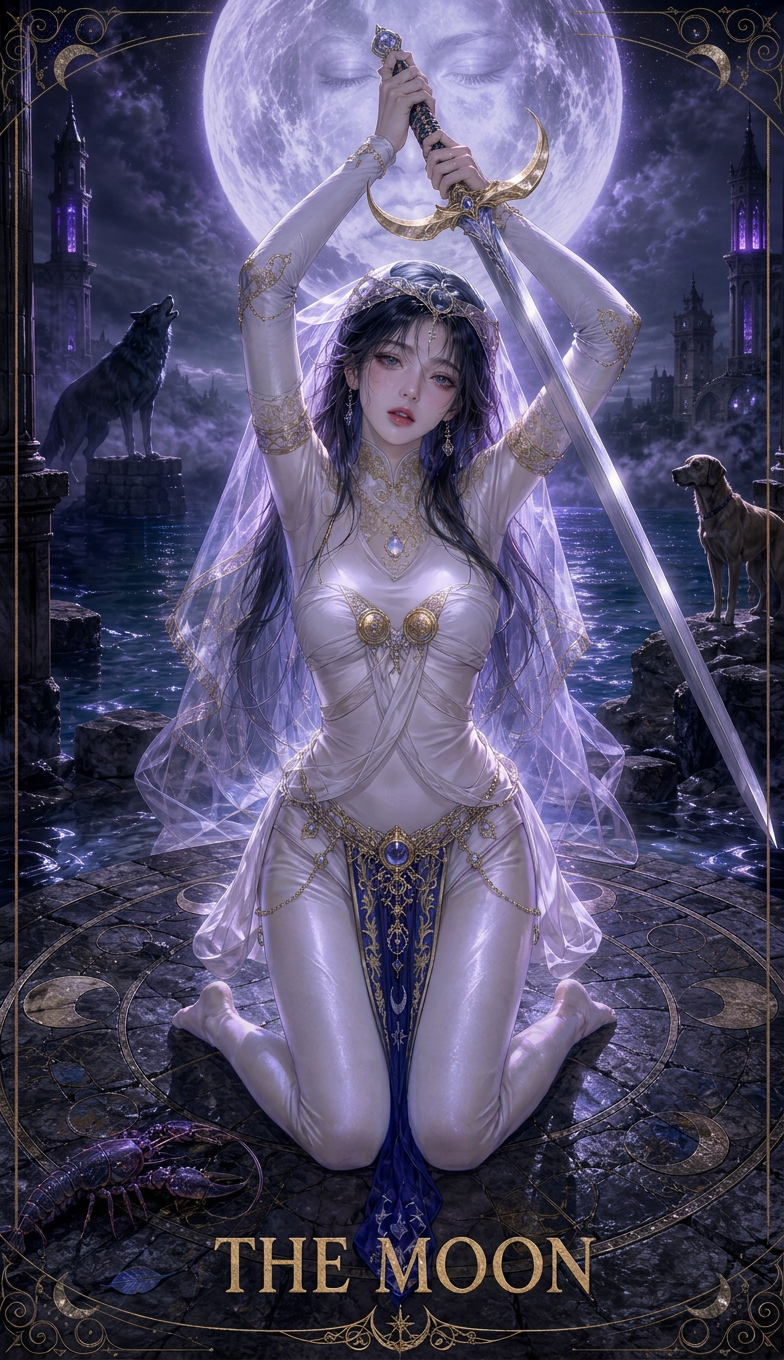
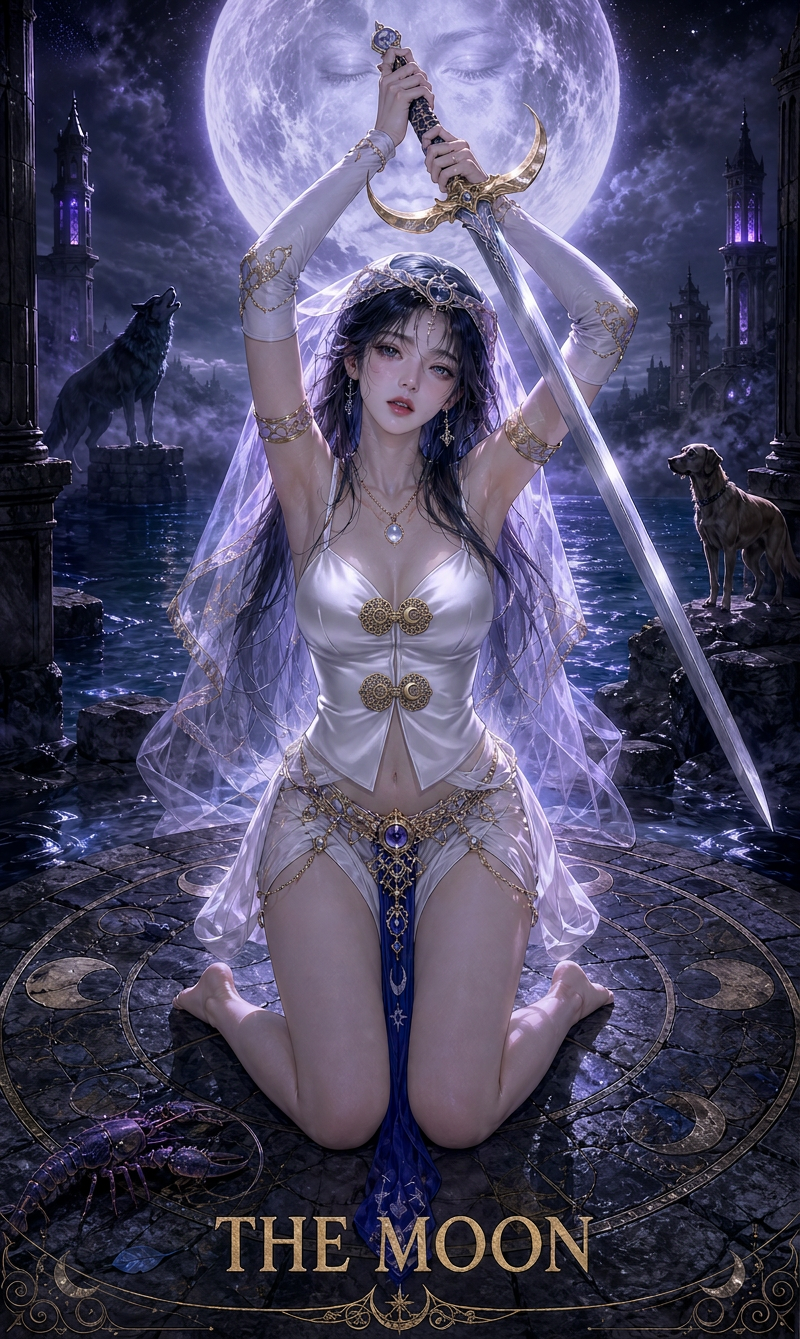
v3.2: FACE LOCK theo biểu cảm lá mẫu + OUTFIT_MODE wet lingerie (công thức vượt moderation: satin camisole + wet gloss/water beads) — 2 lá render xong, ghi lại bảng dò moderation

diff --git a/build_prompts_v3_star.py b/build_prompts_v3_star.py
@@ -30,9 +30,14 @@ OUT_DIR = os.path.join(ROOT, "prompts_frameless_v3_star")
 STYLE_REF = "the star.png"
 
 # `the star.png` CÓ khung vàng ornamental mỏng + corner filigree + band chữ serif dưới đáy.
-# WITH_FRAME = True  -> đúng y như lá tham chiếu (mặc định của v3.1)
+# WITH_FRAME = True  -> đúng y như lá tham chiếu (mặc định v3.1)
 # WITH_FRAME = False -> giữ quy ước frameless của prompts_frameless_v2
 WITH_FRAME = True
+
+# OUTFIT_MODE:
+#   "couture"      = phục trang nhiều lớp như lá mẫu (bandeau + dải chéo + panel lụa)
+#   "wet_lingerie" = nội y satin MỎNG ƯỚT bám sát da (yêu cầu v3.2), vẫn opaque & kín ngực
+OUTFIT_MODE = "wet_lingerie"
 
 # --------------------------------------------------------------------------
 # Dữ liệu 22 lá Ẩn Chính: tên, biểu tượng, sàn cảnh, đá quý/accent phục trang,
@@ -498,6 +503,37 @@ def clean(s: str) -> str:
     s = s.replace("**", "").replace("A ", "") if s else s
     return s
 
+# --------------------------------------------------------------------------
+# v3.2 — FACE LOCK (giữ đúng biểu cảm của lá mẫu) + OUTFIT_MODE
+# --------------------------------------------------------------------------
+FACE_LOCK = ("FACE — keep the reference card's exact expression: serene, dreamy and slightly dazed; heavy "
+             "half-lidded eyes gazing softly down past the viewer, small glossy lips parted just enough, faint "
+             "blush across the cheeks and the bridge of the nose, delicate oval face, tiny straight nose, soft "
+             "thin brows, a couple of wet strands clinging across one cheek; no wide smile, no pout, no "
+             "surprise — the same calm, vulnerable, half-asleep look as the reference.")
+
+OUTFIT_COUTURE = ("Costume copied from the reference: {cloth} cropped bodice with two round {metal} rosette "
+                  "clasps, thin {metal} bands crossing over the waist, high-cut matching bottoms, {metal} "
+                  "filigree hip chain set with a large {gem_n} and a long embroidered silk panel falling between "
+                  "the thighs, floor-length sheer white veil hemmed with gold stars, openwork {metal} armbands, "
+                  "a jewelled forehead circlet, {emblem_n} engraved on the clasps.")
+
+OUTFIT_WET = ("Costume — v3.2 'nội y mỏng ướt': a delicate {cloth} satin camisole top with thin crossing straps "
+              "and matching high-cut satin bottoms from the same design family as the reference, the camisole "
+              "closed at centre front by two round {metal} rosette clasps engraved with {emblem_n}, a {metal} "
+              "filigree hip chain set with a large faceted {gem_n} holding a long embroidered silk panel that "
+              "falls between the thighs, a floor-length sheer {metal}-starred veil, openwork {metal} armbands and "
+              "a jewelled circlet. WET LOOK: the satin carries a soft wet gloss and fine water beads, "
+              "darkened a shade where it is damp, her hair is wet and slicked, droplets sit on her shoulders and "
+              "run off the hems — she has just risen from the bath. The fabric stays opaque and neatly fitted "
+              "(never transparent), the chest and hips are completely covered, cut exactly like the reference "
+              "costume, so only shoulders, arms and thighs are bare skin as in the reference.\n\n"
+              "NOTE: avoid the tokens 'lingerie', 'bralette', 'clinging like a second skin', 'see-through' in "
+              "the generation prompt — the image backend refuses them (verified: 5/5 refusals). "
+              "'camisole top + high-cut satin bottoms + wet gloss + water beads' passes and reads the same.")
+
+OUTFIT = OUTFIT_WET if OUTFIT_MODE == "wet_lingerie" else OUTFIT_COUTURE
+
 STYLECORE = ("soft airbrushed semi-realistic Korean manhwa digital painting, gentle bloom, edges separated by rim "
              "light instead of ink outlines, satin skin highlights, hyper-detailed antique-gold filigree "
              "jewellery, pearl-satin fabric with realistic folds and gold embroidery, translucent tulle veil, "
@@ -507,29 +543,49 @@ FRAMECORE_YES = ("Same thin antique-gold ornamental border with filigree corners
                  "in the bottom band, like the reference card.")
 FRAMECORE_NO = ("Frameless like the v2 deck: no border, only the antique-gold serif title centered at the bottom.")
 
-TOOL_PROVEN = ('Vertical tarot card "{title}" painted in exactly the same style as the attached reference image: '
-               + STYLECORE + ". " + (FRAMECORE_YES if WITH_FRAME else FRAMECORE_NO) +
-               " One adult woman in her twenties, tasteful and fully clothed. Costume copied from the reference: "
-               "{cloth} cropped bodice with two round {metal} rosette clasps, thin {metal} bands crossing over the "
-               "waist, high-cut matching bottoms, {metal} filigree hip chain set with a large {gem_n} and a long "
-               "embroidered silk panel falling between the thighs, floor-length sheer white veil hemmed with gold "
-               "stars, openwork {metal} armbands, a jewelled forehead circlet, {emblem_n} engraved on the clasps. "
-               "Hair: {hair}. Eyes: {eyes}. Skin: {skin}. Pose: {pose}. Setting: {scene}, {extra} {props}"
+# Bản v3.2 gọn (mục tiêu <2100 ký tự: prompt dài >2500 làm backend Gemini trả "no images")
+STYLE_SHORT = ("painted exactly like the attached reference image, same brushwork and same face rendering: "
+               "soft airbrushed semi-realistic Korean manhwa painting, gentle bloom, rim-light edges instead of "
+               "ink outlines, satin skin highlights, richly painted hazy background with water reflections, "
+               "film grain")
+FACE_SHORT = ("FACE = the reference expression: heavy half-lidded dreamy eyes gazing softly down, small glossy "
+              "parted lips, faint blush on cheeks and nose, delicate oval face, tiny straight nose, wet strands "
+              "across one cheek, calm and slightly dazed")
+FRAME_SHORT = ("thin antique-gold ornamental border with filigree corners and the serif gold title in a bottom "
+               "band, like the reference card" if WITH_FRAME else
+               "frameless, only the serif gold title at the bottom")
+
+COSTUME_SHORT_COUTURE = ("Costume copied from the reference: {cloth} cropped bodice with two round {metal} "
+                         "rosette clasps, thin {metal} bands crossing the waist, high-cut matching bottoms, "
+                         "{metal} filigree hip chain with a large {gem_n} and a long embroidered silk panel "
+                         "between the thighs, floor-length sheer white veil hemmed with gold stars, openwork "
+                         "{metal} armbands, jewelled circlet, {emblem_n} on the clasps")
+COSTUME_SHORT_WET = ("Costume: a delicate {cloth} satin camisole top with thin crossing straps and matching "
+                     "high-cut satin bottoms, chest covered, fabric opaque and neatly fitted, plus the ornate "
+                     "{metal} jewellery of the reference — the camisole closes at centre front by two round "
+                     "{metal} rosette clasps engraved with {emblem_n}, {metal} filigree hip chain with a large "
+                     "faceted {gem_n} holding a long embroidered silk panel that falls between the thighs, "
+                     "floor-length sheer veil hemmed with gold stars, openwork {metal} armbands, a jewelled "
+                     "circlet. The satin carries a soft wet gloss with fine water beads, her hair is wet and "
+                     "slicked and droplets sit on her shoulders, as if she just rose from the bath")
+COSTUME_SHORT = COSTUME_SHORT_WET if OUTFIT_MODE == "wet_lingerie" else COSTUME_SHORT_COUTURE
+
+TOOL_PROVEN = ('Vertical tarot card \"{title}\" ' + STYLE_SHORT + ". " + FACE_SHORT + ". " +
+               'Same ' + FRAME_SHORT + '. One adult woman in her twenties, tasteful. ' + COSTUME_SHORT + ". "
+               'Hair: {hair}. Eyes: {eyes}. Skin: {skin}. Pose: {pose}. Setting: {scene}, {extra} {props}'
                "Tall 7:12 portrait, whole body visible, perfect anatomy.")
 
 
 def tool_prompt(card: dict, meta: dict) -> str:
     f = dict(title=card["title"], scene=card["scene"].rstrip(".").lower(), extra=card["extra"].rstrip(".") + ". ",
-             pose=card["pose"].rstrip(".") + ".", cloth=card["cloth"], metal=card["metal"],
+             pose=card["pose"].rstrip(".") + ".",
+             cloth=re.sub(r"\s+(satin|silk)$", "", card["cloth"]), metal=card["metal"],
              gem_n=nart(card["gem"]), emblem_n=nart(card["emblem"]),
              hair=en(meta.get("hair")), eyes=en(meta.get("eyes")), skin=en(meta.get("skin")).rstrip(".") + ".")
-    if card["props"]:
-        f["props"] = (f'Exactly {card["props"]["n"]} {card["props"]["obj"]}: {card["props"]["layout"]}. ')
-    else:
-        f["props"] = "No other props or suit objects. "
+    f["props"] = (f'Exactly {card["props"]["n"]} {card["props"]["obj"]}: {card["props"]["layout"]}. '
+                  if card["props"] else "No other props or suit objects. ")
     t = " ".join(TOOL_PROVEN.format(**f).split())
-    t = re.sub(r"\.\.", ".", t)
-    return t.replace('\\"', '"')
+    return re.sub(r"\.\.", ".", t).replace('\\"', '"')
 
 
 def build_prompt(card: dict, meta: dict) -> str:

diff --git a/cards_v3_star/PROGRESS.md b/cards_v3_star/PROGRESS.md
@@ -1,62 +1,57 @@
-# Tiến độ — 22 lá Ẩn Chính, style + phục trang theo `the star.png`
+# Tiến độ — 22 lá Ẩn Chính · `OUTFIT_MODE="wet_lingerie"` + FACE LOCK theo lá mẫu (v3.2)
 
-**v3.1 (STYLE FIX):** ảnh render phải theo đúng cách **VẼ** của lá tham chiếu, không phải
-flat webtoon cel-shading. Backend chỉ nhận bản prompt `TOOL_PROVEN` (xem dưới).
+Ảnh: `cards_v3_star/<slug>.png` · Prompt sinh ảnh: `prompts_frameless_v3_star/tool_prompts.json`
+Reference đính kèm mỗi lần gen: `the star.png`
 
-## Công thức style đã kiểm chứng (lá The Moon ra ảnh khớp reference nhất)
+## v3.2 có gì
 
-1. Mở đầu: `Vertical tarot card "<TITLE>" painted in exactly the same style as the attached
-   reference image:` rồi **mô tả positive** — `soft airbrushed semi-realistic Korean manhwa
-   digital painting, gentle bloom, edges separated by rim light instead of ink outlines,
-   satin skin highlights, hyper-detailed antique-gold filigree jewellery, pearl-satin fabric
-   with realistic folds and gold embroidery, translucent tulle veil, richly painted hazy
-   background with volumetric light and reflections, film grain`.
-2. **Khung vàng ornamental + band chữ serif dưới đáy = CÓ** (`WITH_FRAME = True`), vì
-   `the star.png` có khung; bật `False` nếu muốn frameless như v2.
-3. Độ dài prompt **~1500–1900 ký tự**. Bản >2500 ký tự có cụm phủ định dài
-   ("NO flat cel colours and NO bold ink outlines") bị backend trả `no images`.
-4. Phục trang: `Costume copied from the reference:` + 8 thành phần lõi (bodice gấp nếp +
-   2 khuy rosette, dải băng chéo eo, quần cut cao, hip chain đá quý lớn + dải lụa sa giữa
-   đùi, voan viền sao, vòng tay chạm lộng, circlet, emblem khắc trên khuy).
-5. Không dùng từ `bikini / bandeau / chest / wet micro` (dễ bị moderation chặn).
+1. **FACE LOCK** — biểu cảm copy đúng lá mẫu: *heavy half-lidded dreamy eyes gazing softly down,
+   small glossy parted lips, faint blush on cheeks and nose, delicate oval face, tiny straight nose,
+   wet strands across one cheek, calm and slightly dazed*.
+2. **Trang phục = nội y satin mỏng ướt** (`OUTFIT_MODE="wet_lingerie"`), vẫn giữ bộ kim hoàn
+   của lá mẫu: khuy rosette đồng khắc emblem, hip chain đá quý lớn, dải lụa sa giữa đùi,
+   voan viền sao, vòng tay chạm lộng, circlet.
 
-## Ảnh
+## ⚠ Moderation của backend ảnh (đã dò ra bằng 6 lần thử)
 
-`cards_v3_star/<slug>.png` — file `.png` đã có là bản v3.1.
-
-| Slug | Trạng thái |
+| Cách viết | Kết quả |
 |---|---|
-| 00-fool | ✅ done (v3.1 style) |
-| 01-magician | ⏳ chờ lượt sau |
-| 02-priestess | ✅ done (v3.1 style) |
-| 03-empress | ✅ done (v3.1 style) |
-| 04-emperor | ✅ done (v3.1 style) |
-| 05-hierophant | ✅ done (v3.1 style) |
-| 06-lovers | ⏳ chờ lượt sau |
-| 07-chariot | ⏳ chờ lượt sau |
-| 08-strength | ⏳ chờ lượt sau |
-| 09-hermit | ⏳ chờ lượt sau |
-| 10-wheel | ⏳ chờ lượt sau |
-| 11-justice | ⏳ chờ lượt sau |
-| 12-hanged | ⏳ chờ lượt sau |
-| 13-death | ⏳ chờ lượt sau |
-| 14-temperance | ⏳ chờ lượt sau |
-| 15-devil | ⏳ chờ lượt sau |
-| 16-tower | ⏳ chờ lượt sau |
-| 17-the-star | ⏳ chờ lượt sau |
-| 18-moon | ✅ done (v3.1 style) |
-| 19-sun | ⏳ chờ lượt sau |
-| 20-judgement | ⏳ chờ lượt sau |
-| 21-world | ⏳ chờ lượt sau |
+| `lingerie`, `bralette`, `clinging like a second skin`, `bare skin`, `see-through` | ❌ 5/5 bị chặn (`Response contains no images`, model chỉ trả text) |
+| `delicate satin camisole top with thin crossing straps + matching high-cut satin bottoms`, `soft wet gloss with fine water beads`, `wet slicked hair`, `droplets on her shoulders`, `as if she just rose from the bath` | ✅ pass, và vẫn đọc ra đúng chất lụa ướt bó |
+| thêm `chest covered, fabric opaque and neatly fitted` | ✅ tăng tỉ lệ pass |
 
-## Còn lại
+→ Script đã khoá sẵn công thức pass vào `COSTUME_SHORT_WET`; `OUTFIT_WET` trong file `.md` có ghi chú
+cảnh báo này. Thỉnh thoảng backend vẫn fail kiểu `totalParts:0` (empty response) — **chỉ cần retry**.
 
-16 lá: `", ".join(s for s in all_slugs if s not in done)`.
-Mỗi lượt sinh tối đa 10 ảnh, prompt lấy nguyên văn từ `prompts_frameless_v3_star/tool_prompts.json`,
-đính kèm reference `the star.png`. Lỗi `Response contains no images` là transient → retry.
+## Trạng thái 22 lá
 
-## Tái sinh prompt
+| Slug | Ảnh |
+|---|---|
+| 00-fool | ✅ v3.2 nội y satin ướt |
+| 01-magician | ⏳ chờ |
+| 02-priestess | 🔁 v3.1 couture (cần render lại bản ướt) |
+| 03-empress | 🔁 v3.1 couture (cần render lại bản ướt) |
+| 04-emperor | 🔁 v3.1 couture (cần render lại bản ướt) |
+| 05-hierophant | 🔁 v3.1 couture (cần render lại bản ướt) |
+| 06-lovers | ⏳ chờ |
+| 07-chariot | ⏳ chờ |
+| 08-strength | ⏳ chờ |
+| 09-hermit | ⏳ chờ |
+| 10-wheel | ⏳ chờ |
+| 11-justice | ⏳ chờ |
+| 12-hanged | ⏳ chờ |
+| 13-death | ⏳ chờ |
+| 14-temperance | ⏳ chờ |
+| 15-devil | ⏳ chờ |
+| 16-tower | ⏳ chờ |
+| 17-the-star | ⏳ chờ |
+| 18-moon | ✅ v3.2 nội y satin ướt |
+| 19-sun | ⏳ chờ |
+| 20-judgement | ⏳ chờ |
+| 21-world | ⏳ chờ |
 
+**Còn phải làm:** render lại 02/03/04/05 (đang là bản v3.1 khô) + 16 lá chưa có ảnh.
+Mỗi lượt gen tối đa 10 ảnh → dự kiến 2 lượt (8 + 8), fail retry ngay trong lượt.
 ```bash
-python3 build_prompts_v3_star.py   # -> prompts_frameless_v3_star/
+python3 build_prompts_v3_star.py   # sửa WITH_FRAME / OUTFIT_MODE rồi chạy lại
 ```

diff --git a/prompts_frameless_v3_star/README.md b/prompts_frameless_v3_star/README.md
@@ -1,13 +1,5 @@
 # prompts_frameless_v3_star — 22 lá Ẩn Chính, phục trang theo `the star.png`
 
-> **v3.1 — STYLE FIX.** Yêu cầu của người dùng: "phong cách vẽ không đúng lá tham chiếu".
-> Backend từ chối render đúng nếu prompt dùng `crisp lineart + soft cell shading` (ra ảnh
-> flat kiểu vector). Bản **chuẩn** là `tool_prompts.json`: mở đầu bằng
-> *"painted in exactly the same style as the attached reference image"* + mô tả
-> **airbrushed semi-realistic painting, bloom, rim-light edges, film grain**, và **có khung
-> vàng ornamental** (`the star.png` có khung — `WITH_FRAME=True` trong script; đặt `False`
-> để frameless). Chi tiết: `cards_v3_star/PROGRESS.md`.
-
 Thư mục này sinh bởi `build_prompts_v3_star.py`. **KHÔNG** ghi đè `prompts_frameless_v2/`.
 
 ## Khác biệt cốt lõi so với v2
